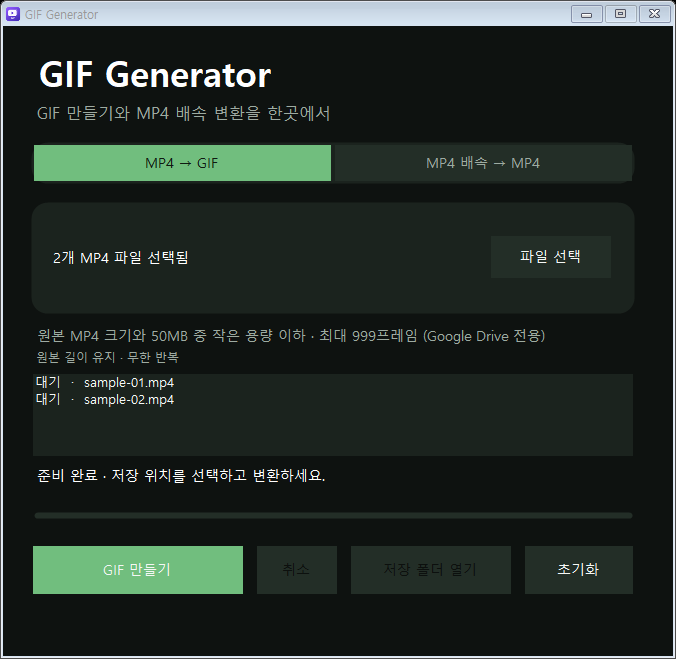
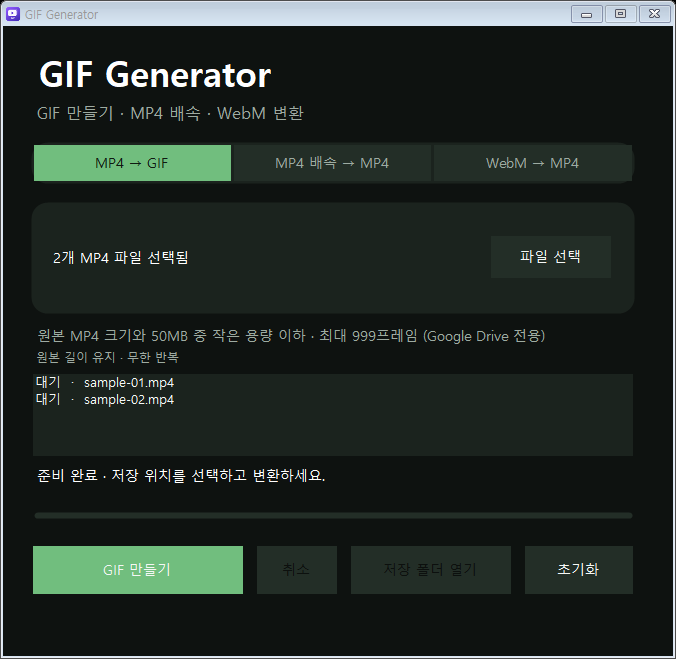
Add WebM to MP4 conversion to GIF Generator

diff --git a/apps/gif-generator/GifMaker.cs b/apps/gif-generator/GifMaker.cs
@@ -14,8 +14,8 @@ using System.Reflection;
 
 [assembly: AssemblyTitle("GIF Generator")]
 [assembly: AssemblyProduct("GIF Generator")]
-[assembly: AssemblyDescription("MP4 to GIF and MP4 speed converter")]
-[assembly: AssemblyVersion("1.6.2.0")]
+[assembly: AssemblyDescription("MP4 to GIF, MP4 speed and WebM to MP4 converter")]
+[assembly: AssemblyVersion("1.7.0.0")]
 
 static class GUi {
     public static readonly Color Background=Color.FromArgb(14,18,16), Surface=Color.FromArgb(27,35,30), Surface2=Color.FromArgb(35,46,39), Text=Color.FromArgb(244,247,245), Muted=Color.FromArgb(158,171,162), Accent=Color.FromArgb(113,190,126);
@@ -107,6 +107,39 @@ class Engine {
             Status("완료 · "+summary,100); return summary;
         } finally { if(File.Exists(staging)) File.Delete(staging); }
     }
+    public string ConvertWebm(string input, string output) {
+        if(!File.Exists(input) || !Path.GetExtension(input).Equals(".webm",StringComparison.OrdinalIgnoreCase)) throw new Exception("WebM 파일을 선택해 주세요.");
+        if(File.Exists(output)) throw new Exception("같은 이름의 파일이 있습니다. 다른 이름으로 저장해 주세요.");
+        Status("영상과 소리 정보를 확인하고 있습니다…",0);
+        string json=Run("ffprobe","-v error -show_entries stream=codec_type:format=duration -of json "+Q(input),null);
+        var root=new JavaScriptSerializer().Deserialize<Dictionary<string,object>>(json);
+        var streams=(System.Collections.ArrayList)root["streams"];
+        bool hasVideo=false,hasAudio=false;
+        foreach(Dictionary<string,object> stream in streams) {
+            string type=stream["codec_type"].ToString();
+            if(type=="video")hasVideo=true;
+            if(type=="audio")hasAudio=true;
+        }
+        if(!hasVideo) throw new Exception("영상이 없는 WebM 파일입니다.");
+        double duration=0;var format=(Dictionary<string,object>)root["format"];
+        if(format.ContainsKey("duration"))double.TryParse(format["duration"].ToString(),NumberStyles.Float,CultureInfo.InvariantCulture,out duration);
+        string staging=output+"."+Guid.NewGuid().ToString("N")+".tmp";
+        try {
+            string args="-hide_banner -loglevel error -y -threads 2 -i "+Q(input)+" -map 0:v:0 -map 0:a:0? -vf "+Q("pad=ceil(iw/2)*2:ceil(ih/2)*2")+" -c:v libx264 -preset medium -crf 18 -pix_fmt yuv420p -threads 2 -c:a aac -b:a 192k -sn -dn -map_metadata -1 -map_chapters -1 -movflags +faststart -progress pipe:1 -nostats -f mp4 "+Q(staging);
+            Run("ffmpeg",args,delegate(string line) {
+                double us;
+                if(duration>0 && line.StartsWith("out_time_us=") && double.TryParse(line.Substring(12),NumberStyles.Float,CultureInfo.InvariantCulture,out us))
+                    Status("WebM → MP4 변환 중…",Math.Max(0,Math.Min(99,(int)(us/1000000/duration*100))));
+            });
+            Check();
+            string videoCodec=Run("ffprobe","-v error -select_streams v:0 -show_entries stream=codec_name -of default=noprint_wrappers=1:nokey=1 "+Q(staging),null).Trim();
+            string audioCodec=Run("ffprobe","-v error -select_streams a:0 -show_entries stream=codec_name -of default=noprint_wrappers=1:nokey=1 "+Q(staging),null).Trim();
+            if(videoCodec!="h264" || (hasAudio&&audioCodec!="aac") || new FileInfo(staging).Length==0) throw new Exception("결과 MP4 검증에 실패했습니다.");
+            Check();File.Move(staging,output);
+            string summary="H.264 MP4 · "+(hasAudio?"AAC 소리 · ":"소리 없음 · ")+(new FileInfo(output).Length/1000000.0).ToString("0.00")+" MB";
+            Status("완료 · "+summary,100);return summary;
+        } finally {if(File.Exists(staging))File.Delete(staging);}
+    }
     public string Convert(string input, string output) {
         if(!File.Exists(input)) throw new Exception("MP4 파일을 찾을 수 없습니다.");
         if(File.Exists(output)) throw new Exception("같은 이름의 결과 파일이 이미 있습니다. 다른 이름을 선택하세요.");
@@ -177,13 +210,13 @@ class MainForm : Form {
     Label pathLabel, status, detail; Button select, start, cancel, open, reset; GProgressBar bar;
     string result,outputDirectory; Engine engine; bool busy,cancelRequested;
     readonly List<string> inputs=new List<string>();ListBox queue;
-    Panel gifPage,speedPage;Button gifTabButton,speedTabButton;SpeedPanel speedPanel;int activeTab;
+    Panel gifPage,speedPage,webmPage;Button gifTabButton,speedTabButton,webmTabButton;SpeedPanel speedPanel;WebmPanel webmPanel;int activeTab;
     Color bg=GUi.Background, panel=GUi.Surface2, muted=GUi.Muted;
     public MainForm() {
         Text="GIF Generator"; ClientSize=new Size(660,620); MinimumSize=MaximumSize=Size; FormBorderStyle=FormBorderStyle.FixedSingle; MaximizeBox=false; StartPosition=FormStartPosition.CenterScreen; BackColor=bg; ForeColor=GUi.Text; Font=new Font("맑은 고딕",10); AutoScaleMode=AutoScaleMode.Dpi;
         Icon=Icon.ExtractAssociatedIcon(Application.ExecutablePath);
         Label title=LabelAt("GIF Generator",28,22,440,48,26,Color.White); title.Font=new Font(Font.FontFamily,26,FontStyle.Bold);
-        LabelAt("GIF 만들기와 MP4 배속 변환을 한곳에서",30,76,600,28,12,muted);
+        LabelAt("GIF 만들기 · MP4 배속 · WebM 변환",30,76,600,28,12,muted);
         var drop=new GRoundedPanel { Location=new Point(28,122),Size=new Size(604,112),AllowDrop=true }; Controls.Add(drop);
         pathLabel=new Label { Text="MP4 파일을 여기에 끌어 놓으세요",Location=new Point(18,20),Size=new Size(440,70),TextAlign=ContentAlignment.MiddleLeft,AutoEllipsis=true,ForeColor=Color.White }; drop.Controls.Add(pathLabel);
         select=ButtonAt("파일 선택",460,34,120,42,false); drop.Controls.Add(select); select.Click+=delegate { using(var d=new OpenFileDialog {Filter="MP4 동영상|*.mp4",Title="GIF로 만들 MP4 선택",Multiselect=true}) if(d.ShowDialog()==DialogResult.OK) SetInputs(d.FileNames); }; select.BringToFront();
@@ -201,23 +234,28 @@ class MainForm : Form {
         var gifControls=new System.Collections.Generic.List<Control>();
         foreach(Control c in Controls) if(c.Top>=122) gifControls.Add(c);
         var switcher=new GRoundedPanel {Location=new Point(28,116),Size=new Size(604,42)};Controls.Add(switcher);
-        gifTabButton=new Button {Text="MP4 → GIF",Location=new Point(3,3),Size=new Size(297,36)};GUi.Button(gifTabButton,GUi.Accent);switcher.Controls.Add(gifTabButton);
-        speedTabButton=new Button {Text="MP4 배속 → MP4",Location=new Point(304,3),Size=new Size(297,36)};GUi.Button(speedTabButton,GUi.Surface2);switcher.Controls.Add(speedTabButton);
-        gifPage=new Panel {Location=new Point(0,164),Size=new Size(660,450),BackColor=bg};speedPage=new Panel {Location=gifPage.Location,Size=gifPage.Size,BackColor=bg,Visible=false};Controls.Add(gifPage);Controls.Add(speedPage);
+        gifTabButton=new Button {Text="MP4 → GIF",Location=new Point(3,3),Size=new Size(197,36)};GUi.Button(gifTabButton,GUi.Accent);switcher.Controls.Add(gifTabButton);
+        speedTabButton=new Button {Text="MP4 배속 → MP4",Location=new Point(203,3),Size=new Size(197,36)};GUi.Button(speedTabButton,GUi.Surface2);switcher.Controls.Add(speedTabButton);
+        webmTabButton=new Button {Text="WebM → MP4",Location=new Point(403,3),Size=new Size(198,36)};GUi.Button(webmTabButton,GUi.Surface2);switcher.Controls.Add(webmTabButton);
+        gifPage=new Panel {Location=new Point(0,164),Size=new Size(660,450),BackColor=bg};speedPage=new Panel {Location=gifPage.Location,Size=gifPage.Size,BackColor=bg,Visible=false};webmPage=new Panel {Location=gifPage.Location,Size=gifPage.Size,BackColor=bg,Visible=false};Controls.Add(gifPage);Controls.Add(speedPage);Controls.Add(webmPage);
         foreach(Control c in gifControls) {c.Top-=110;gifPage.Controls.Add(c);}
         speedPanel=new SpeedPanel {Dock=DockStyle.Fill};speedPage.Controls.Add(speedPanel);
-        gifTabButton.Click+=delegate{SelectTab(0);};speedTabButton.Click+=delegate{SelectTab(1);};SelectTab(0);
+        webmPanel=new WebmPanel {Dock=DockStyle.Fill};webmPage.Controls.Add(webmPanel);
+        gifTabButton.Click+=delegate{SelectTab(0);};speedTabButton.Click+=delegate{SelectTab(1);};webmTabButton.Click+=delegate{SelectTab(2);};SelectTab(0);
         FormClosing+=delegate(object s,FormClosingEventArgs e) {
             if(busy) {e.Cancel=true;cancelRequested=true;if(engine!=null)engine.Cancelled=true;status.Text="취소 중입니다. 완료 후 창을 닫아 주세요.";}
             if(speedPanel.Busy) {e.Cancel=true; speedPanel.Cancel();}
+            if(webmPanel.Busy) {e.Cancel=true; webmPanel.Cancel();}
         };
     }
-    void SelectTab(int index){if(busy||speedPanel.Busy)return;activeTab=index;gifPage.Visible=index==0;speedPage.Visible=index==1;gifTabButton.BackColor=index==0?GUi.Accent:GUi.Surface2;speedTabButton.BackColor=index==1?GUi.Accent:GUi.Surface2;gifTabButton.ForeColor=index==0?Color.FromArgb(15,26,18):GUi.Muted;speedTabButton.ForeColor=index==1?Color.FromArgb(15,26,18):GUi.Muted;}
+    void SelectTab(int index){if(busy||speedPanel.Busy||webmPanel.Busy)return;activeTab=index;gifPage.Visible=index==0;speedPage.Visible=index==1;webmPage.Visible=index==2;gifTabButton.BackColor=index==0?GUi.Accent:GUi.Surface2;speedTabButton.BackColor=index==1?GUi.Accent:GUi.Surface2;webmTabButton.BackColor=index==2?GUi.Accent:GUi.Surface2;gifTabButton.ForeColor=index==0?Color.FromArgb(15,26,18):GUi.Muted;speedTabButton.ForeColor=index==1?Color.FromArgb(15,26,18):GUi.Muted;webmTabButton.ForeColor=index==2?Color.FromArgb(15,26,18):GUi.Muted;}
     public void SelectSpeedTab(){SelectTab(1);}
+    public void SelectWebmTab(){SelectTab(2);}
+    public void SetWebmInput(string path){SelectTab(2);webmPanel.SetInput(path);}
     Label LabelAt(string text,int x,int y,int w,int h,int size,Color color) {var l=new Label {Text=text,Location=new Point(x,y),Size=new Size(w,h),Font=new Font("맑은 고딕",size),ForeColor=color};Controls.Add(l);return l;}
     Button ButtonAt(string text,int x,int y,int w,int h,bool primary) {var b=new Button {Text=text,Location=new Point(x,y),Size=new Size(w,h)};GUi.Button(b,primary?GUi.Accent:panel);Controls.Add(b);return b;}
-    void EnterFile(object s,DragEventArgs e) {e.Effect=!busy&&!speedPanel.Busy&&e.Data.GetDataPresent(DataFormats.FileDrop)?DragDropEffects.Copy:DragDropEffects.None;}
-    void DropFile(object s,DragEventArgs e) {if(busy||speedPanel.Busy)return; var files=e.Data.GetData(DataFormats.FileDrop) as string[];if(files!=null&&files.Length>0) {if(activeTab==1)speedPanel.SetInput(files[0]);else SetInputs(files);}}
+    void EnterFile(object s,DragEventArgs e) {e.Effect=!busy&&!speedPanel.Busy&&!webmPanel.Busy&&e.Data.GetDataPresent(DataFormats.FileDrop)?DragDropEffects.Copy:DragDropEffects.None;}
+    void DropFile(object s,DragEventArgs e) {if(busy||speedPanel.Busy||webmPanel.Busy)return; var files=e.Data.GetData(DataFormats.FileDrop) as string[];if(files!=null&&files.Length>0) {if(Path.GetExtension(files[0]).Equals(".webm",StringComparison.OrdinalIgnoreCase))SetWebmInput(files[0]);else if(activeTab==1)speedPanel.SetInput(files[0]);else if(activeTab==2)webmPanel.SetInput(files[0]);else SetInputs(files);}}
     void ResetInput() {
         if(busy)return;
         inputs.Clear();queue.Items.Clear();result=outputDirectory=null;engine=null;cancelRequested=false;
@@ -323,8 +361,60 @@ class SpeedPanel : UserControl {
         finally {Busy=false;start.Enabled=select.Enabled=rate.Enabled=reset.Enabled=true;cancel.Enabled=false;}
     }
 }
+class WebmPanel : UserControl {
+    Label fileLabel,status;Button select,start,cancel,open,reset;GProgressBar bar;
+    string input,result;Engine engine;
+    public bool Busy {get;private set;}
+    readonly Color surface=GUi.Surface2,muted=GUi.Muted;
+    public WebmPanel() {
+        BackColor=GUi.Background;ForeColor=GUi.Text;Font=new Font("맑은 고딕",10);AllowDrop=true;
+        var drop=new GRoundedPanel {Location=new Point(28,12),Size=new Size(604,100),AllowDrop=true};Controls.Add(drop);
+        fileLabel=new Label {Text="WebM 파일을 여기에 끌어 놓으세요",Location=new Point(18,16),Size=new Size(430,68),TextAlign=ContentAlignment.MiddleLeft,AutoEllipsis=true};drop.Controls.Add(fileLabel);
+        select=MakeButton("파일 선택",460,30,120);drop.Controls.Add(select);
+        select.Click+=delegate{using(var d=new OpenFileDialog {Filter="WebM 동영상|*.webm",Title="MP4로 만들 WebM 선택"})if(d.ShowDialog()==DialogResult.OK)SetInput(d.FileName);};
+        LabelAt("일반적인 플레이어에서 재생되는 H.264 MP4로 변환합니다.",30,133,600,28,11);
+        LabelAt("소리가 있으면 AAC로 함께 변환 · 원본 길이 유지",30,174,600,25,9);
+        status=LabelAt("WebM 파일을 선택하면 시작할 수 있습니다.",30,231,600,35,10);status.ForeColor=Color.White;
+        bar=new GProgressBar {Location=new Point(30,272),Size=new Size(600,10)};Controls.Add(bar);
+        start=MakeButton("MP4 만들기",30,298,210);start.BackColor=GUi.Accent;start.Enabled=false;start.Click+=async delegate{await Convert();};
+        cancel=MakeButton("취소",254,298,80);cancel.Enabled=false;cancel.Click+=delegate{Cancel();};
+        open=MakeButton("저장 폴더 열기",348,298,160);open.Enabled=false;open.Click+=delegate{if(result!=null)Process.Start("explorer.exe","/select,\""+result+"\"");};
+        reset=MakeButton("초기화",522,298,108);reset.Click+=delegate{if(Busy)return;input=result=null;engine=null;fileLabel.Text="WebM 파일을 여기에 끌어 놓으세요";bar.Value=0;status.Text="WebM 파일을 선택하면 시작할 수 있습니다.";start.Enabled=cancel.Enabled=open.Enabled=false;};
+        DragEventHandler enter=delegate(object s,DragEventArgs e){e.Effect=!Busy&&e.Data.GetDataPresent(DataFormats.FileDrop)?DragDropEffects.Copy:DragDropEffects.None;};
+        DragEventHandler dropped=delegate(object s,DragEventArgs e){if(Busy)return;var files=e.Data.GetData(DataFormats.FileDrop) as string[];if(files!=null&&files.Length>0)SetInput(files[0]);};
+        DragEnter+=enter;DragDrop+=dropped;drop.DragEnter+=enter;drop.DragDrop+=dropped;
+    }
+    Label LabelAt(string text,int x,int y,int w,int h,int size){var label=new Label {Text=text,Location=new Point(x,y),Size=new Size(w,h),Font=new Font("맑은 고딕",size),ForeColor=muted};Controls.Add(label);return label;}
+    Button MakeButton(string text,int x,int y,int width){var button=new Button {Text=text,Location=new Point(x,y),Size=new Size(width,42)};GUi.Button(button,surface);Controls.Add(button);return button;}
+    public void SetInput(string path){
+        if(Busy)return;
+        if(!File.Exists(path)||!Path.GetExtension(path).Equals(".webm",StringComparison.OrdinalIgnoreCase)){MessageBox.Show("WebM 파일을 선택해 주세요.");return;}
+        input=path;result=null;open.Enabled=false;bar.Value=0;
+        fileLabel.Text=Path.GetFileName(path)+"\n"+(new FileInfo(path).Length/1000000.0).ToString("0.0")+" MB";
+        start.Enabled=true;status.Text="준비 완료 · 저장 위치를 선택하고 변환하세요.";
+    }
+    public void Cancel(){if(engine!=null&&Busy){engine.Cancelled=true;status.Text="변환을 취소하고 있습니다…";}}
+    async Task Convert(){
+        if(input==null)return;
+        string dest;
+        using(var dialog=new SaveFileDialog {Filter="MP4 동영상|*.mp4",DefaultExt="mp4",AddExtension=true,InitialDirectory=Path.GetDirectoryName(input),FileName=Path.GetFileNameWithoutExtension(input)+"_converted.mp4",OverwritePrompt=false}){
+            if(dialog.ShowDialog()!=DialogResult.OK)return;dest=dialog.FileName;
+            if(File.Exists(dest)){MessageBox.Show("같은 이름의 파일이 있습니다. 다른 이름으로 저장해 주세요.");return;}
+        }
+        Busy=true;start.Enabled=select.Enabled=reset.Enabled=open.Enabled=false;cancel.Enabled=true;bar.Value=0;
+        engine=new Engine();engine.Status=delegate(string text,int progress){if(!IsDisposed)BeginInvoke((Action)delegate{status.Text=text;bar.Value=Math.Max(0,Math.Min(100,progress));});};
+        try{string info=await Task.Run(()=>engine.ConvertWebm(input,dest));result=dest;status.Text="완료 · "+info;bar.Value=100;open.Enabled=true;}
+        catch(OperationCanceledException){status.Text="취소되었습니다.";bar.Value=0;}
+        catch(Exception ex){status.Text="변환하지 못했습니다.";MessageBox.Show(ex.Message,"GIF Generator",MessageBoxButtons.OK,MessageBoxIcon.Error);}
+        finally{Busy=false;start.Enabled=select.Enabled=reset.Enabled=true;cancel.Enabled=false;}
+    }
+}
 class Program {
     [STAThread] static int Main(string[] args) {
+        if(args.Length==3&&args[0]=="--webm") {
+            try{var engine=new Engine();var summary=engine.ConvertWebm(Path.GetFullPath(args[1]),Path.GetFullPath(args[2]));File.WriteAllText(args[2]+".result.txt",summary);return 0;}
+            catch(Exception ex){File.WriteAllText(args[2]+".error.txt",ex.ToString());return 1;}
+        }
         if(args.Length>=4&&args[0]=="--speed") {
             try {var e=new Engine();var summary=e.ChangeSpeed(Path.GetFullPath(args[1]),Path.GetFullPath(args[2]),double.Parse(args[3],CultureInfo.InvariantCulture));File.WriteAllText(args[2]+".result.txt",summary);return 0;}catch(Exception ex){File.WriteAllText(args[2]+".error.txt",ex.ToString());return 1;}
         }
@@ -338,11 +428,15 @@ class Program {
                 Application.Run(batchForm);
             }return 0;
         }
-        var form=new MainForm();if(args.Length>0&&File.Exists(args[0]))form.SetInput(args[0]);
+        var form=new MainForm();if(args.Length>0&&File.Exists(args[0])){if(Path.GetExtension(args[0]).Equals(".webm",StringComparison.OrdinalIgnoreCase))form.SetWebmInput(args[0]);else form.SetInput(args[0]);}
         if(args.Length==2&&args[0]=="--ui-batch-test"){
             string previewDirectory=Path.Combine(Path.GetTempPath(),"GifBatchPreview-"+Guid.NewGuid().ToString("N"));Directory.CreateDirectory(previewDirectory);
             string first=Path.Combine(previewDirectory,"sample-01.mp4"),second=Path.Combine(previewDirectory,"sample-02.mp4");
             try{File.WriteAllBytes(first,new byte[0]);File.WriteAllBytes(second,new byte[0]);form.SetInputs(new[]{first,second});form.Show();Application.DoEvents();using(var b=new Bitmap(form.Width,form.Height)){form.DrawToBitmap(b,new Rectangle(Point.Empty,b.Size));b.Save(args[1]);}form.Close();}finally{Directory.Delete(previewDirectory,true);}return 0;
+        }
+        if(args.Length==2&&args[0]=="--ui-webm-test"){
+            string previewDirectory=Path.Combine(Path.GetTempPath(),"WebmPreview-"+Guid.NewGuid().ToString("N"));Directory.CreateDirectory(previewDirectory);
+            try{string sample=Path.Combine(previewDirectory,"sample.webm");File.WriteAllBytes(sample,new byte[2400000]);form.SetWebmInput(sample);form.Show();Application.DoEvents();using(var b=new Bitmap(form.Width,form.Height)){form.DrawToBitmap(b,new Rectangle(Point.Empty,b.Size));b.Save(args[1]);}form.Close();}finally{Directory.Delete(previewDirectory,true);}return 0;
         }
         if(args.Length==2&&(args[0]=="--ui-test"||args[0]=="--ui-speed-test")) {form.Show();if(args[0]=="--ui-speed-test")form.SelectSpeedTab();Application.DoEvents();using(var b=new Bitmap(form.Width,form.Height)){form.DrawToBitmap(b,new Rectangle(Point.Empty,b.Size));b.Save(args[1]);}form.Close();return 0;}
         Application.Run(form);return 0;

diff --git a/installer/MyWindowsAppsSetup.cs b/installer/MyWindowsAppsSetup.cs
@@ -13,7 +13,7 @@ using Microsoft.Win32;
 [assembly: AssemblyTitle("My Windows Apps Setup")]
 [assembly: AssemblyProduct("My Windows Apps")]
 [assembly: AssemblyDescription("Installer for GIF Generator, Lab Server Monitor and GPT Usage Tray")]
-[assembly: AssemblyVersion("1.0.17.0")]
+[assembly: AssemblyVersion("1.0.19.0")]
 
 static class SetupUi {
     public static readonly Color Background=Color.FromArgb(14,18,16), Surface=Color.FromArgb(27,35,30), Surface2=Color.FromArgb(35,46,39), Text=Color.FromArgb(244,247,245), Muted=Color.FromArgb(158,171,162), Accent=Color.FromArgb(113,190,126);
@@ -39,7 +39,7 @@ class SetupForm : Form {
         FormBorderStyle=FormBorderStyle.FixedSingle;MaximizeBox=false;BackColor=background;ForeColor=SetupUi.Text;Font=new Font("맑은 고딕",10);Icon=Icon.ExtractAssociatedIcon(Application.ExecutablePath);
         Controls.Add(new Label {Text="My Windows Apps",Location=new Point(30,24),Size=new Size(540,42),Font=new Font("Segoe UI",24,FontStyle.Bold)});
         Controls.Add(new Label {Text="설치하거나 삭제할 앱을 선택하세요",Location=new Point(32,69),Size=new Size(540,26),ForeColor=muted});
-        AddOption(gif,30,112,"GIF Generator","MP4를 원본 크기와 50MB 중 작은 용량 이하 GIF로 변환합니다.");
+        AddOption(gif,30,112,"GIF Generator","MP4 → GIF·배속, WebM → MP4 변환을 한곳에서 합니다.");
         AddOption(monitor,30,210,"Lab Server Monitor","서버 GPU 메모리·사용률·온도와 RAM을 1초마다 확인합니다.");
         AddOption(usage,30,308,"GPT Usage Tray","Codex Pro 주간 잔여 사용량을 작업표시줄 왼쪽에 표시합니다.");
         gif.Checked=monitor.Checked=usage.Checked=true;

diff --git a/apps/gif-generator/README.md b/apps/gif-generator/README.md
@@ -1,10 +1,11 @@
 # GIF Generator
 
-MP4 파일을 Google Drive용 GIF로 변환하거나 MP4 재생 속도를 바꿉니다. GIF 크기는 원본 MP4와 50MB 중 더 작은 값 이하이며, 프레임 수는 999 이하입니다.
+MP4 파일을 Google Drive용 GIF로 변환하거나 MP4 재생 속도를 바꾸고, WebM을 MP4로 변환합니다. GIF 크기는 원본 MP4와 50MB 중 더 작은 값 이하이며, 프레임 수는 999 이하입니다.
 
 - MP4를 여러 개 선택하거나 함께 끌어놓으면 순서대로 GIF로 변환합니다. 파일별 상태와 전체 진행률을 표시합니다.
 - 파일 하나는 저장 파일명을, 여러 개는 저장 폴더를 선택합니다. 같은 이름이 있으면 번호를 붙여 별도 저장합니다.
 - GIF마다 원본 MP4와 50MB 중 더 작은 용량·999프레임 제한을 적용합니다. 한 파일이 실패해도 남은 파일은 계속 처리합니다.
+- WebM → MP4 탭에서는 영상은 H.264, 소리는 AAC로 변환합니다. 소리가 없는 WebM도 변환할 수 있습니다.
 - FFmpeg와 FFprobe는 설치 파일에 포함됩니다.
 
 FFmpeg는 별도 오픈 소스 프로젝트이며 라이선스 정보는 함께 설치되는 `FFmpeg-LICENSE.txt`를 참고하세요.

diff --git a/README.md b/README.md
@@ -16,7 +16,9 @@
 
 ![GIF Generator 예시: MP4 파일 두 개를 선택한 화면](docs/screenshots/gif-generator.png)
 
-MP4 여러 개를 GIF로 변환하거나 MP4 재생 속도를 바꿉니다. GIF는 **원본 MP4 크기와 50MB 중 작은 용량 이하**, **999프레임 이하**로 만듭니다.
+MP4 여러 개를 GIF로 변환하거나 MP4 재생 속도를 바꾸고, **WebM을 MP4로 변환**합니다. GIF는 **원본 MP4 크기와 50MB 중 작은 용량 이하**, **999프레임 이하**로 만듭니다.
+
+![GIF Generator의 WebM → MP4 탭 예시](docs/screenshots/webm-to-mp4.png)
 
 ## 2. Lab Server Monitor
 
